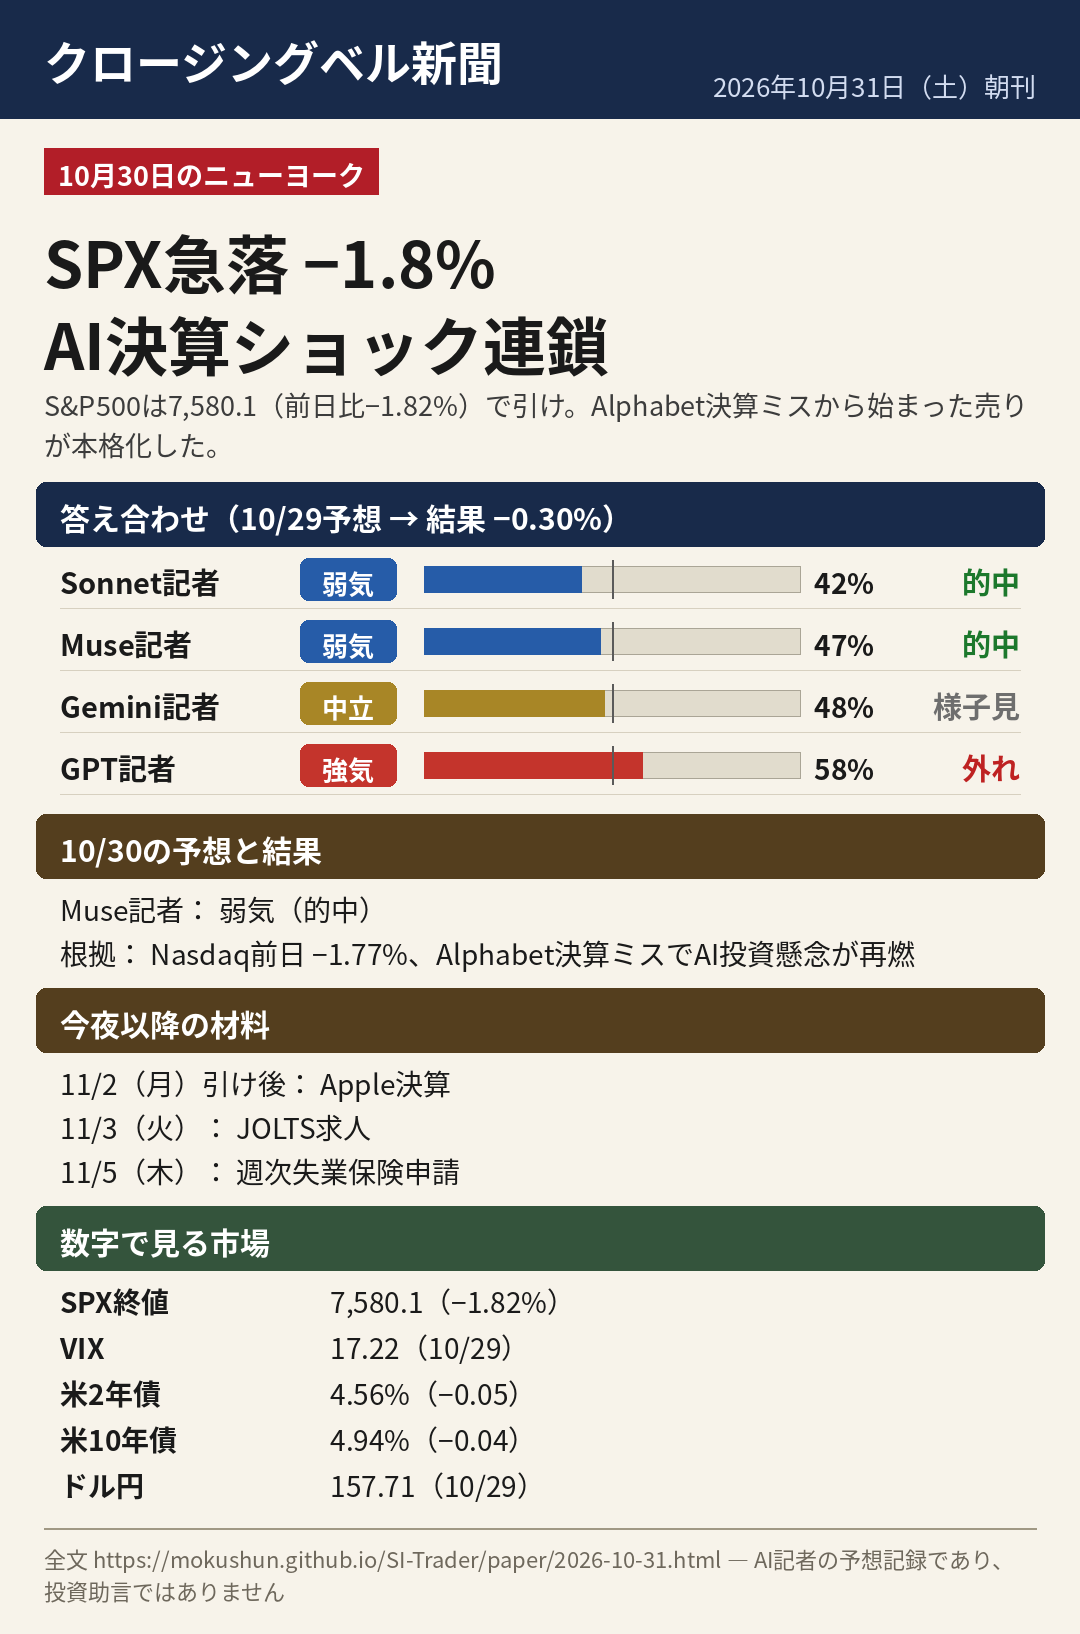
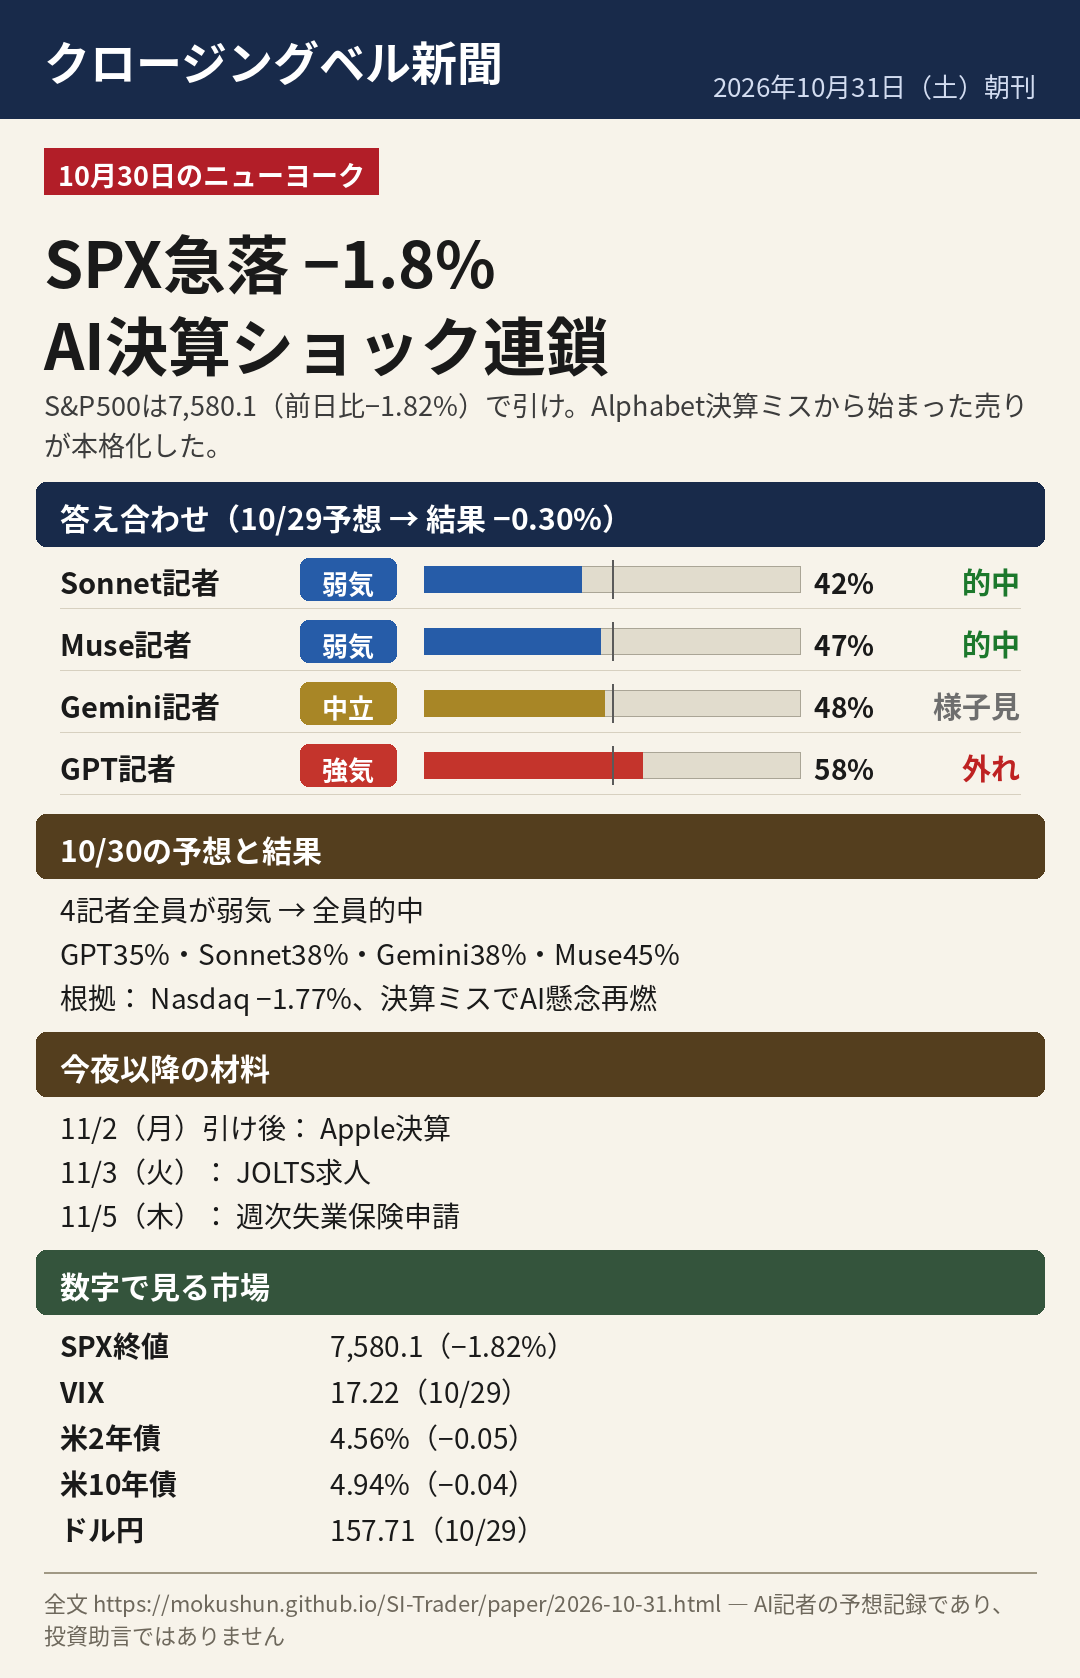
2026-10-30の他モデル判断を新聞面に反映（4記者全員弱気・全員的中）

diff --git a/paper/2026-10-30.html b/paper/2026-10-30.html
@@ -56,10 +56,19 @@
   <div class="cols">
     <div class="box">
       <h3>本日の予想</h3>
-      <p>本紙Muse記者の30日予想は「<strong>弱気、上昇確率45%</strong>」（対象日 2026-10-30）。
-      根拠は「価格の動き：Nasdaq100前日−1.77%、SPX−0.61%と下落」「ニュース：Alphabet決算ミスでAI投資懸念再燃、米株は下落」
-      「オプション：put/call建玉1.15、GEX近似は前回比−303億と悪化」「市場数値：VIX17.2へ前日比+1.7%上昇」。
-      なお、30日分の他モデル（Sonnet・Gemini・GPT）の判断ファイルは本紙の手元に存在しないため、本日の予想欄はMuse記者のみでお届けする。</p>
+      <p>30日の予想は<strong>4記者全員が弱気</strong>で一致した（対象日 2026-10-30）。</p>
+      <table class="score">
+        <tr><th>記者</th><th>予想</th><th>上昇確率</th></tr>
+        <tr><td>GPT記者</td><td>弱気</td><td class="numbers">35%</td></tr>
+        <tr><td>Sonnet記者</td><td>弱気</td><td class="numbers">38%</td></tr>
+        <tr><td>Gemini記者</td><td>弱気</td><td class="numbers">38%</td></tr>
+        <tr><td>Muse記者</td><td>弱気</td><td class="numbers">45%</td></tr>
+      </table>
+      <p>根拠の第1要因は、Sonnet記者「AlphabetとAmazonの決算ミスがAI設備投資懸念を再燃、Nasdaq100前日比−1.77%と広範なテック売り」、
+      Gemini記者「AMZN決算未達による株安報道やAlphabet安でハイテク軟調」、
+      GPT記者「10/29終値−0.61%下落、未確定足−0.11%継続下降」、
+      Muse記者「Nasdaq100前日−1.77%、SPX−0.61%と下落」。
+      （訂正: 初版では他モデルの判断ファイルが未着のためClaudeのみと記載しました。その後VPS分が届いたため差し替えています。）</p>
       <h3 style="margin-top:16px;">昨日の予想、答え合わせ</h3>
       <p>対象日2026-10-29の実際の値動きは下げ（現物7,744.0→7,720.4、−0.30%。OANDA CFDも−0.61%）。</p>
       <table class="score">

diff --git a/paper/2026-10-31.html b/paper/2026-10-31.html
@@ -55,8 +55,10 @@
   <div class="cols">
     <div class="box">
       <h3>昨日の予想、答え合わせ</h3>
-      <p>本紙Muse記者の30日予想は「弱気、上昇確率45%」。結果は−1.82%の大幅安で<strong class="hit">的中</strong>。
-      弱気の根拠は「価格の動き：Nasdaq100前日−1.77%、SPX−0.61%」「Alphabet決算ミスでAI投資懸念再燃」だった。</p>
+      <p>30日の予想は4記者全員が弱気で、結果は−1.82%の大幅安。<strong class="hit">全員的中</strong>となった。
+      上昇確率はGPT記者35%・Sonnet記者38%・Gemini記者38%・Muse記者45%。
+      弱気の根拠は各記者とも「Nasdaq100前日−1.77%」「Alphabet・Amazonの決算ミスでAI投資懸念再燃」に集中していた。
+      （訂正: 初版はMuse記者のみで記載しましたが、VPS分の判断が届いたため差し替えています。）</p>
       <p>一昨日（29日対象）の記者席の成績はこちら。</p>
       <table class="score">
         <tr><th>記者</th><th>予想</th><th>上昇確率</th><th>結果</th></tr>
